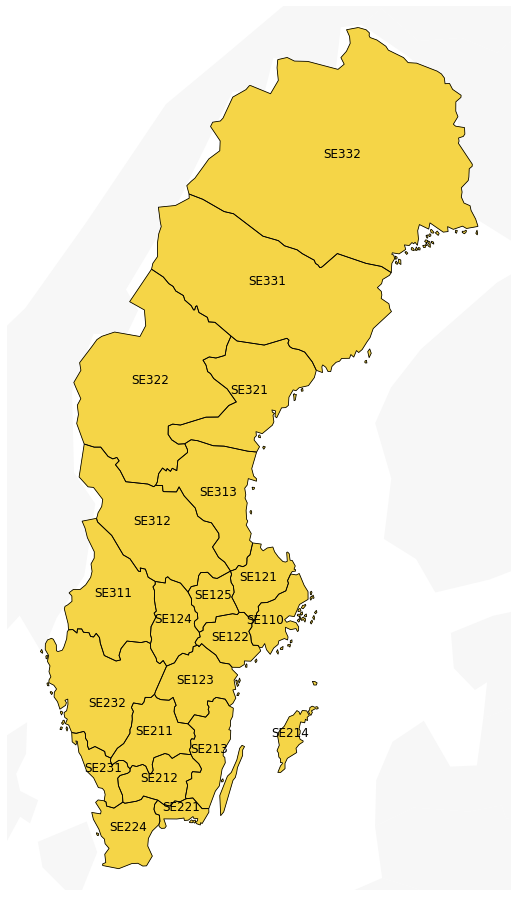
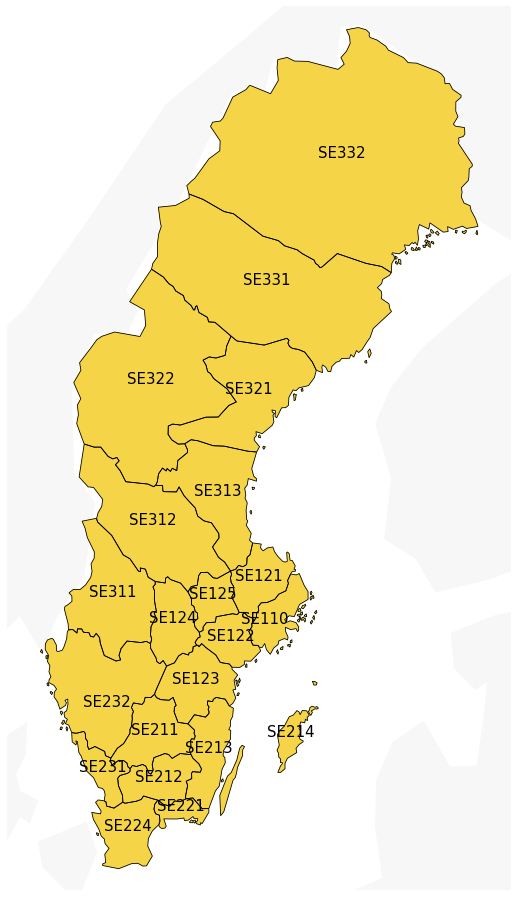
statistics created

diff --git a/src/plot.py b/src/plot.py
@@ -13,12 +13,12 @@ import pandas as pd
 
 import seaborn as sns
 import matplotlib.pyplot as plt
-plt.rcParams["figure.figsize"] = (9,7)
+plt.rcParams["figure.figsize"] = (12,10)
 
 import location
 import _src
 
-def centroid_distance_heatmap(name = None, countries = None):
+def centroid_distance_heatmap(h = 100, name = None, countries = None):
     
     # get selection data only
     if countries is None:
@@ -27,7 +27,7 @@ def centroid_distance_heatmap(name = None, countries = None):
         regions = {k:v for k,v in _src.regions().items() if k[:2].lower() in countries} 
 
     # get centroid distances
-    M,M_nuts = location.centroid_distance_matrix(regions = regions)
+    M,M_nuts = location.centroid_distance_matrix(h = h, regions = regions)
     # get region names (for legend)
     M_names = _src.region_names(M_nuts)
 
@@ -38,13 +38,13 @@ def centroid_distance_heatmap(name = None, countries = None):
     # save plot
     else: plt.savefig(name)
 
-def centroid_distance_heatmap_czpl():
+def centroid_distance_heatmap_czpl(*args, **kw):
     # plot with explicit data
-    centroid_distance_heatmap(countries = {'cz','pl'})
+    centroid_distance_heatmap(*args, countries = {'cz','pl'}, **kw)
     
-def centroid_distance_heatmap_se():
+def centroid_distance_heatmap_se(*args, **kw):
     # plot with explicit data
-    centroid_distance_heatmap(countries = {'se'})
+    centroid_distance_heatmap(*args, countries = {'se'}, **kw)
 
 def adjacency_matrix(name = None, countries = None):
     
@@ -107,7 +107,7 @@ def adjacency_heatmap_se():
     # plot with explicit data
     adjacency_heatmap(countries = {'se'})
 
-def location_score_heatmap(name = None, countries = None):
+def location_score_heatmap(h = 100, name = None, countries = None):
     
     # get selection data only
     if countries is None:
@@ -116,7 +116,7 @@ def location_score_heatmap(name = None, countries = None):
         regions = {k:v for k,v in _src.regions().items() if k[:2].lower() in countries} 
     
     # get score
-    M,M_nuts = location.location_score_matrix(regions = regions) # bug
+    M,M_nuts = location.location_score_matrix(h = h, regions = regions) # bug
     # get region names
     M_names = _src.region_names(M_nuts)
     
@@ -127,15 +127,15 @@ def location_score_heatmap(name = None, countries = None):
     # save plot
     else: plt.savefig(name)
 
-def location_score_heatmap_czpl():
+def location_score_heatmap_czpl(h = 100):
 
     # plot with explicit data
-    location_score_heatmap(countries = {'cz','pl'})
+    location_score_heatmap(h = h, countries = {'cz','pl'})
     
-def location_score_heatmap_se():
+def location_score_heatmap_se(h = 100):
     
     # plot with explicit data
-    location_score_heatmap(countries = {'se'})
+    location_score_heatmap(h = h, countries = {'se'})
 
 def area_population_scatter(name = None, regions_df = None):
     
@@ -177,6 +177,4 @@ def popdensity_boxplot_noPRG(name = None, regions_df = None):
     
     # plot
     popdensity_boxplot(name = name, regions_df = regions_df)
-
-adjacency_matrix_czpl()
-#popdensity_boxplot_noPRG()
+    

diff --git a/src/location.py b/src/location.py
@@ -65,7 +65,7 @@ def adjacency_similarity_matrix(neighbors = None):
     # return
     return D_adjacent_,region_nuts
 
-def centroid_distance_matrix(regions = None):
+def centroid_distance_matrix(h = 100, regions = None):
     
     # default data
     regions = regions if regions is not None else _src.regions()
@@ -76,7 +76,7 @@ def centroid_distance_matrix(regions = None):
     # distance matrix
     D_centroid = cdist(centroids, centroids, metric = tools.great_circle)
     # Gaussian kernel (distance -> similarity matrix)
-    K_centroid = tools.rbf(D_centroid, h = 100)
+    K_centroid = tools.rbf(D_centroid, h = h)
     # scale inverted (similarity -> distance matrix)
     K_centroid = minmax_scale(-K_centroid)
     # seriate
@@ -90,7 +90,7 @@ def centroid_distance_matrix(regions = None):
     # return
     return K_centroid_,region_nuts
     
-def location_score_matrix(regions = None):
+def location_score_matrix(h = 100, regions = None):
     
     # default data
     regions = regions if regions is not None else _src.regions()
@@ -99,7 +99,7 @@ def location_score_matrix(regions = None):
     neighbors = {k:v for k,v in _src.neighbors().items() if k in regions}
     
     # construct matrices
-    M_ctr,ctr_nuts = centroid_distance_matrix(regions = regions)
+    M_ctr,ctr_nuts = centroid_distance_matrix(h = h, regions = regions)
     M_adj,adj_nuts = adjacency_similarity_matrix(neighbors = neighbors)
     
     # reorder to have same order

diff --git a/src/statistics.py b/src/statistics.py
@@ -1,0 +1,48 @@
+# -*- coding: utf-8 -*-
+"""
+Module to perform statistical analysis.
+
+@author: Martin Benes
+"""
+
+import sys
+sys.path.append('src')
+
+import math
+import numpy as np
+from scipy.stats import ttest_ind, levene, f_oneway
+
+import _src
+
+def IQR(regions = None, countries = None):
+    """IQR method for region dataframe.
+    
+    Args:
+        regions (pd.DataFrame, optional): Optional data to work on.
+                                          If not given, all regions used.
+        countries ()
+    """
+    
+    # fetch region dataframe
+    regions = _src.regions_df() if regions is None else regions
+    
+    # subset country
+    if countries:
+        regions = regions[regions.Country.isin(list(countries))]
+    
+    def _IQR(x):
+        """IQR method for a vector."""
+        q1,q3 = np.percentile(sorted(x),[25,75])
+        iqr = q3 - q1
+        low,high = (q1 - (1.5*iqr), q3 + (1.5*iqr))
+        return (x < low) | (x > high)
+    
+    # remove descriptive columns
+    outs = {}
+    for c in set(regions.columns) - descriptive_cols:
+        flags = _IQR(regions[c])
+        outs[c] = regions[flags]
+    
+    # return outliers
+    return outs
+

diff --git a/src/cartography.py b/src/cartography.py
@@ -135,14 +135,13 @@ def plot_map(assets, regions, colors = {}, font_size = 15):
     ax.set_ylim(miny - y_over, maxy + y_over)
     plt.show()
 
-
 def CZ_PL_map():
     """Constructs map of Czechia and Poland."""
     plot_map(
         ['CZ', 'CZE', 'PL', 'POL'],
         [r'CZ[0-9]{0,3}$', r'PL$', r'PL9$', r'PL[^9][0-9]{0,1}$'],
         colors = {'CZ': (1,.91,.51), 'PL': (1,.99,.78)},
-        font_size = 20
+        font_size = 35
     )
 
 def SE_map():
@@ -151,8 +150,5 @@ def SE_map():
         ['SE', 'SWE'],
         [r'SE[0-9]*'],
         colors = {'SE': (.96,.835,.28)},
-        font_size = 12
+        font_size = 15
     )
-    
-CZ_PL_map()
-SE_map()

diff --git a/run.py b/run.py
@@ -1,0 +1,27 @@
+# -*- coding: utf-8 -*-
+"""
+Run script.
+
+@author: Martin Benes
+"""
+
+import sys
+sys.path.append("src")
+
+# plot maps
+import cartography
+cartography.CZ_PL_map()
+cartography.SE_map()
+
+# adjacency matrix
+import plot
+plot.adjacency_matrix()
+
+# location scores
+plot.adjacency_heatmap() # adjacency
+plot.centroid_distance_heatmap(h = 120) # centroid distance
+plot.location_score_heatmap(h = 120) # combination
+
+# area population
+plot.area_population_scatter()
+plot.popdensity_boxplot_noPRG()
